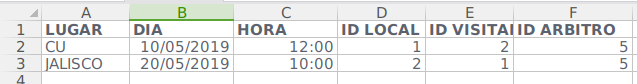
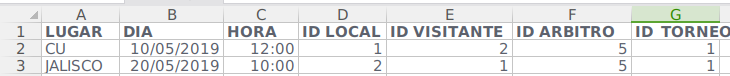
bug: referee manager does not update correct satistics

diff --git a/UI.py b/UI.py
@@ -529,21 +529,26 @@ class WAdminManager(Gtk.Window):
 
         # Matches
 
-        local = self.DB_connection.select_tables_no_distinct(["Team", "Match"], ["Team.name"], "Team.id_team=Match.id_local")
-        visit = self.DB_connection.select_tables_no_distinct(["Team", "Match"], ["Team.name"], "Team.id_team=Match.id_visit")
+        local = self.DB_connection.select_tables_no_distinct(["Team", "Match"], ["Team.name"],
+                                                             "Team.id_team=Match.id_local")
+        visit = self.DB_connection.select_tables_no_distinct(["Team", "Match"], ["Team.name"],
+                                                             "Team.id_team=Match.id_visit")
         referee = self.DB_connection.select_tables_no_distinct(["Usr", "Match"], ["Usr.name", "Usr.last_name"],
-                                                   "Usr.id_user=Match.idreferee")
+                                                               "Usr.id_user=Match.idreferee")
         match_info = self.DB_connection.read("Match", ["place", "match_date", "hour", "goals_local", "goals_visit"])
+        tournament = self.DB_connection.select_tables_no_distinct(["Tournament", "Match"], ["Tournament.name"],
+                                                                  "Tournament.id_tournament = Match.id_day")
         data = []
         for i in range(len(local)):
+            print(referee[i][0])
             tmp = [local[i][0], visit[i][0], match_info[i][0],
                    str(match_info[i][1]), str(match_info[i][2]), match_info[i][3],
-                   match_info[i][4], referee[i][0], referee[i][1]]
+                   match_info[i][4], referee[i][0], referee[i][1], tournament[i][0]]
             data.append(tmp)
         matches = self.builder.get_object("treeview_match")
         headers = ["Equipo local", "Equipo visitante", "Lugar", "Fecha", "Hora", "Goles local", "Goles visitante",
-                   "Árbitro", ""]
-        list_model = Gtk.ListStore(str, str, str, str, str, int, int, str, str)
+                   "Árbitro", "", "Torneo"]
+        list_model = Gtk.ListStore(str, str, str, str, str, int, int, str, str, str)
         fill_tree_view_list(headers, data, list_model, matches)
 
     def on_search_changed(self, entry):
@@ -1409,6 +1414,8 @@ class WRefereeManager(Gtk.Window):
 
     def on_row_changed(self, row):
         model, selection = row.get_selected()
+        if selection is None:
+            return
         local = self.teams[model[selection][0]]
         visit = self.teams[model[selection][1]]
         print(local, visit)
@@ -1724,8 +1731,8 @@ class WAddMatches(Gtk.Window):
         self.add(self.layout_main)
         # treeviewlist
         tree = self.builder.get_object("treeview_matches")
-        headers = ["LUGAR", "DIA", "HORA", "ID LOCAL", "ID VISITANTE", "ID ARBITRO"]
-        model = Gtk.ListStore(str, str, str, int, int, int)
+        headers = ["LUGAR", "DIA", "HORA", "ID LOCAL", "ID VISITANTE", "ID ARBITRO", "ID TORNEO"]
+        model = Gtk.ListStore(str, str, str, int, int, int, int)
         data = []
         fill_tree_view_list(headers, data, model, tree)
 
@@ -1746,8 +1753,13 @@ class WAddMatches(Gtk.Window):
         dialog.destroy()
 
     def on_button_add_pressed(self, button):
+        dialog = DialogConfirm(self, "Agregar la jornada", "¿Está seguro de agregar la jornada?")
+        response = dialog.run()
+        dialog.destroy()
+        if response != Gtk.ResponseType.OK:
+            return;
         if self.matches == []:
-            DialogOK("No se han agregado encuentro aún.")
+            DialogOK("No se han agregado encuentros aún.")
             return
         try:
             for match in self.matches:
@@ -1756,7 +1768,7 @@ class WAddMatches(Gtk.Window):
             print(e)
             DialogOK("Ha ocurrido un problema.")
             return
-        DialogOK("Se han a;adido con éxito")
+        DialogOK("Se han añadido con éxito")
         self.onDestroy()
 
     def on_file_choose(self, widget):
@@ -1764,6 +1776,7 @@ class WAddMatches(Gtk.Window):
         self.matches = []
         try:
             data = pandas.read_excel(widget.get_filename())
+
             self.matches = []
             for i in data.index:
                 place = (str(data["LUGAR"][i]))
@@ -1772,10 +1785,11 @@ class WAddMatches(Gtk.Window):
                 id_local = (int(data["ID LOCAL"][i]))
                 id_visit = (int(data["ID VISITANTE"][i]))
                 id_referee = (int(data["ID ARBITRO"][i]))
+                id_tournament = (int(data["ID TORNEO"][i]))
                 match = Match(place=place, match_date=date, hour=hour, id_local=id_local, id_visit=id_visit,
-                              id_referee=id_referee)
+                              id_referee=id_referee, id_day=id_tournament)
                 self.matches.append(match)
-                d.append([place, date, hour, id_local, id_visit, id_referee])
+                d.append([place, date, hour, id_local, id_visit, id_referee, id_tournament])
         except Exception as e:
             print(e)
             DialogOK("Parece ser que el archivo no cumple con\n las características para el programa.")

diff --git a/data_structs.py b/data_structs.py
@@ -135,10 +135,10 @@ class Player:
 
     def update_statistics(self, sql, appearence, goals, reprimand, expulsion):
         query = "UPDATE Player \nSET "
-        query += "expulsions += expulsions + {}, ".format(expulsion)
-        query += "reprimands += reprimands + {}, ".format(reprimand)
-        query += "appearances += appearances + {}, ".format(appearence)
-        query += "goals += goals + {}\n".format(goals)
+        query += "expulsions = expulsions + {}, ".format(expulsion)
+        query += "reprimands = reprimands + {}, ".format(reprimand)
+        query += "appearances = appearances + {}, ".format(appearence)
+        query += "goals = goals + {}\n".format(goals)
         query += "WHERE name='{}' AND last_name='{}' AND last_last_name='{}'".format(self.name, self.last_name,
                                                                                     self.last_last_name)
         sql.query(query)
@@ -264,11 +264,11 @@ class Team:
     def update_statistics(self, sql, goals, goals_conceded, win, lost, draw):
         query = "UPDATE Team\n"
         query += "SET "
-        query += "win += win + {}, ".format(win)
-        query += "lost += lost + {}, ".format(lost)
-        query += "draw += draw + {}, ".format(draw)
-        query += "goals += goals + {}, ".format(goals)
-        query += "goals_conceded += goals_conceded + {}\n".format(goals_conceded)
+        query += "win = win + {}, ".format(win)
+        query += "lost = lost + {}, ".format(lost)
+        query += "draw = draw + {}, ".format(draw)
+        query += "goals = goals + {}, ".format(goals)
+        query += "goals_conceded = goals_conceded + {}\n".format(goals_conceded)
         query += "WHERE id_team='{}'".format(self.id_team)
         sql.query(query)
 
